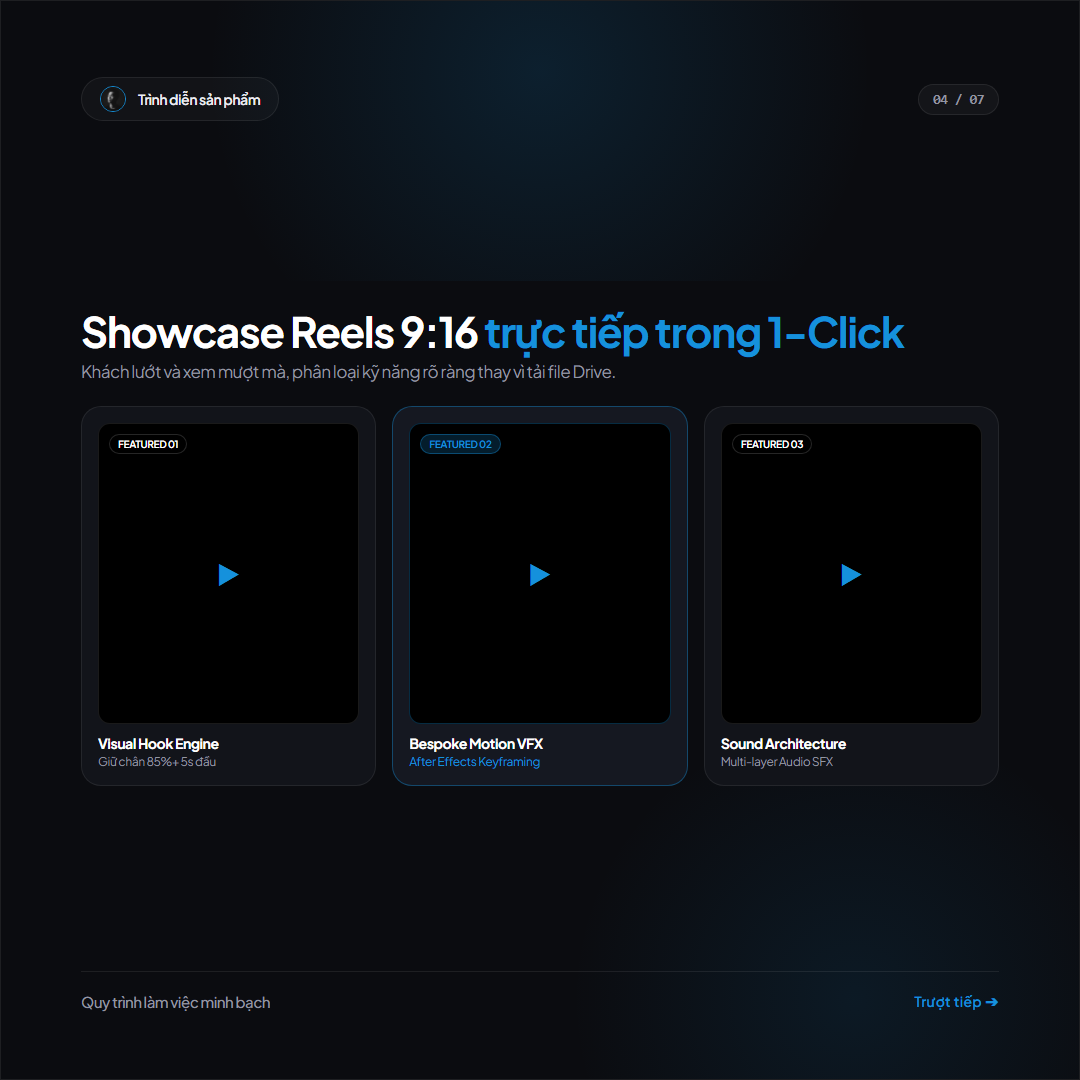
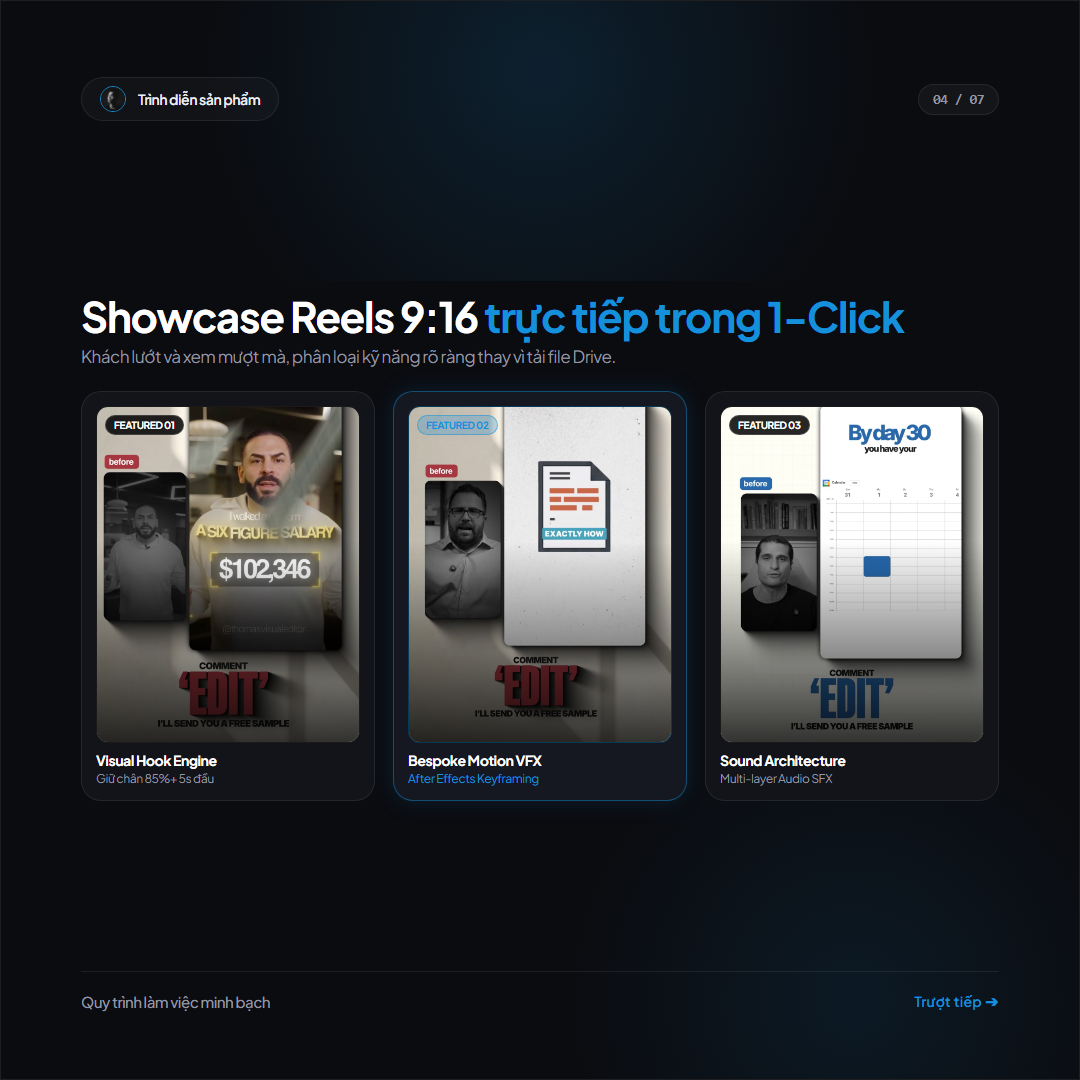
Add real HD video reel thumbnails to Slide 4 in Instagram Carousel Version 1

Changed region(s): [[0.0611, 0.275, 0.9167, 0.7333]]

diff --git a/public/carousel_maker.html b/public/carousel_maker.html
@@ -413,43 +413,49 @@
         </p>
       </div>
 
-      <!-- 3 Vertical Video Cards -->
-      <div style="display: grid; grid-template-columns: 1fr 1fr 1fr; gap: 16px;">
+      <!-- 3 Vertical Video Cards with Real Reels Images -->
+      <div style="display: grid; grid-template-columns: 1fr 1fr 1fr; gap: 18px;">
         
-        <div class="card-box" style="padding: 16px; display: flex; flex-direction: column; justify-content: space-between; height: 380px;">
-          <div style="aspect-ratio: 9/12; border-radius: 12px; background: #000; border: 1px solid rgba(255,255,255,0.1); position: relative; overflow: hidden; display: flex; align-items: center; justify-content: center;">
-            <span style="position: absolute; top: 10px; left: 10px; background: rgba(0,0,0,0.8); border: 1px solid rgba(255,255,255,0.15); padding: 3px 8px; border-radius: 999px; font-size: 10px; font-weight: 600; color: #fff;">
+        <!-- Card 1 -->
+        <div class="card-box" style="padding: 14px; display: flex; flex-direction: column; justify-content: space-between; height: 410px;">
+          <div style="aspect-ratio: 9/13; border-radius: 12px; background: #000; border: 1px solid rgba(255,255,255,0.1); position: relative; overflow: hidden;">
+            <img src="/reel_thumb_1.jpg" style="width: 100%; height: 100%; object-fit: cover;">
+            <div style="position: absolute; inset: 0; background: linear-gradient(to top, rgba(0,0,0,0.8) 0%, transparent 60%);"></div>
+            <span style="position: absolute; top: 8px; left: 8px; background: rgba(0,0,0,0.85); border: 1px solid rgba(255,255,255,0.15); padding: 3px 8px; border-radius: 999px; font-size: 10px; font-weight: 700; color: #fff;">
               FEATURED 01
             </span>
-            <span style="font-size: 28px; color: #1591DC;">▶</span>
           </div>
-          <div style="margin-top: 10px;">
+          <div style="margin-top: 8px;">
             <div style="font-size: 14px; font-weight: 700; color: #ffffff;">Visual Hook Engine</div>
             <div style="font-size: 12px; color: #9496a1; margin-top: 2px;">Giữ chân 85%+ 5s đầu</div>
           </div>
         </div>
 
-        <div class="card-box" style="padding: 16px; display: flex; flex-direction: column; justify-content: space-between; height: 380px; border-color: rgba(21,145,220,0.4); background: #151821;">
-          <div style="aspect-ratio: 9/12; border-radius: 12px; background: #000; border: 1px solid rgba(21,145,220,0.3); position: relative; overflow: hidden; display: flex; align-items: center; justify-content: center;">
-            <span style="position: absolute; top: 10px; left: 10px; background: rgba(21,145,220,0.2); border: 1px solid rgba(21,145,220,0.4); padding: 3px 8px; border-radius: 999px; font-size: 10px; font-weight: 600; color: #1591DC;">
+        <!-- Card 2 (Active Glow) -->
+        <div class="card-box" style="padding: 14px; display: flex; flex-direction: column; justify-content: space-between; height: 410px; border-color: rgba(21,145,220,0.45); background: #151821; box-shadow: 0 0 25px rgba(21,145,220,0.15);">
+          <div style="aspect-ratio: 9/13; border-radius: 12px; background: #000; border: 1px solid rgba(21,145,220,0.4); position: relative; overflow: hidden;">
+            <img src="/reel_thumb_2.jpg" style="width: 100%; height: 100%; object-fit: cover;">
+            <div style="position: absolute; inset: 0; background: linear-gradient(to top, rgba(0,0,0,0.8) 0%, transparent 60%);"></div>
+            <span style="position: absolute; top: 8px; left: 8px; background: rgba(21,145,220,0.25); border: 1px solid rgba(21,145,220,0.5); padding: 3px 8px; border-radius: 999px; font-size: 10px; font-weight: 700; color: #1591DC;">
               FEATURED 02
             </span>
-            <span style="font-size: 28px; color: #1591DC;">▶</span>
           </div>
-          <div style="margin-top: 10px;">
+          <div style="margin-top: 8px;">
             <div style="font-size: 14px; font-weight: 700; color: #ffffff;">Bespoke Motion VFX</div>
             <div style="font-size: 12px; color: #1591DC; margin-top: 2px;">After Effects Keyframing</div>
           </div>
         </div>
 
-        <div class="card-box" style="padding: 16px; display: flex; flex-direction: column; justify-content: space-between; height: 380px;">
-          <div style="aspect-ratio: 9/12; border-radius: 12px; background: #000; border: 1px solid rgba(255,255,255,0.1); position: relative; overflow: hidden; display: flex; align-items: center; justify-content: center;">
-            <span style="position: absolute; top: 10px; left: 10px; background: rgba(0,0,0,0.8); border: 1px solid rgba(255,255,255,0.15); padding: 3px 8px; border-radius: 999px; font-size: 10px; font-weight: 600; color: #fff;">
+        <!-- Card 3 -->
+        <div class="card-box" style="padding: 14px; display: flex; flex-direction: column; justify-content: space-between; height: 410px;">
+          <div style="aspect-ratio: 9/13; border-radius: 12px; background: #000; border: 1px solid rgba(255,255,255,0.1); position: relative; overflow: hidden;">
+            <img src="/reel_thumb_3.jpg" style="width: 100%; height: 100%; object-fit: cover;">
+            <div style="position: absolute; inset: 0; background: linear-gradient(to top, rgba(0,0,0,0.8) 0%, transparent 60%);"></div>
+            <span style="position: absolute; top: 8px; left: 8px; background: rgba(0,0,0,0.85); border: 1px solid rgba(255,255,255,0.15); padding: 3px 8px; border-radius: 999px; font-size: 10px; font-weight: 700; color: #fff;">
               FEATURED 03
             </span>
-            <span style="font-size: 28px; color: #1591DC;">▶</span>
           </div>
-          <div style="margin-top: 10px;">
+          <div style="margin-top: 8px;">
             <div style="font-size: 14px; font-weight: 700; color: #ffffff;">Sound Architecture</div>
             <div style="font-size: 12px; color: #9496a1; margin-top: 2px;">Multi-layer Audio SFX</div>
           </div>
